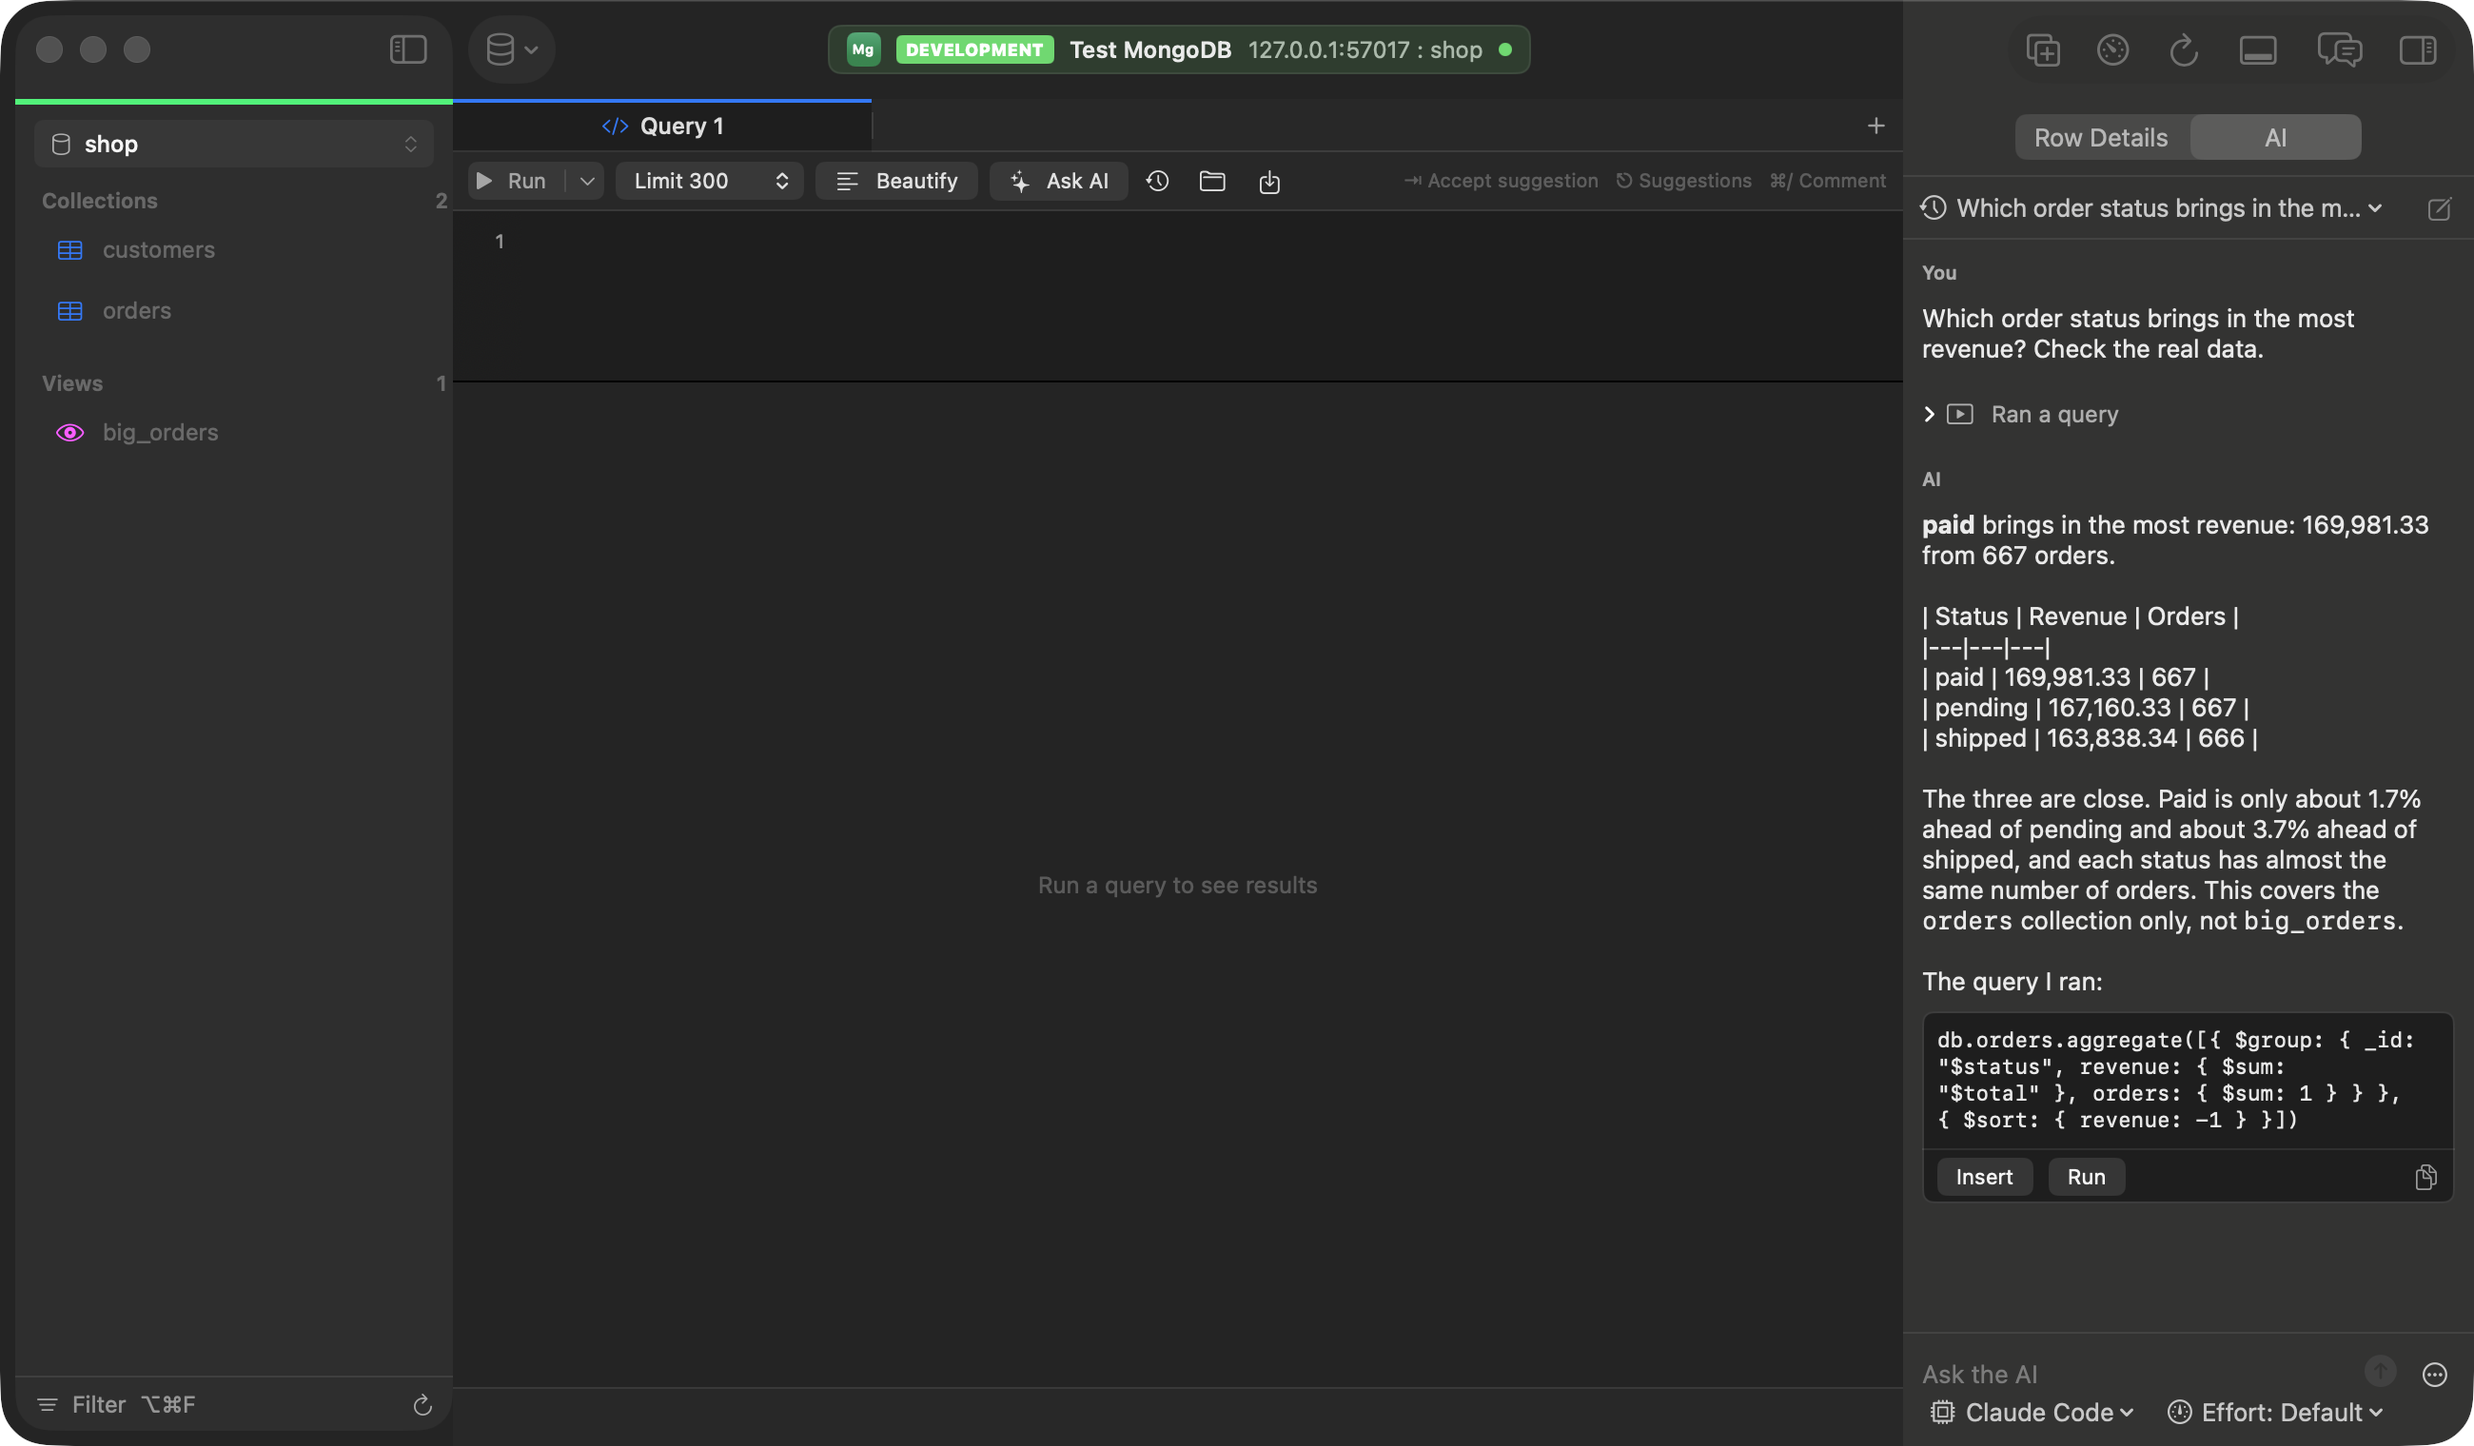
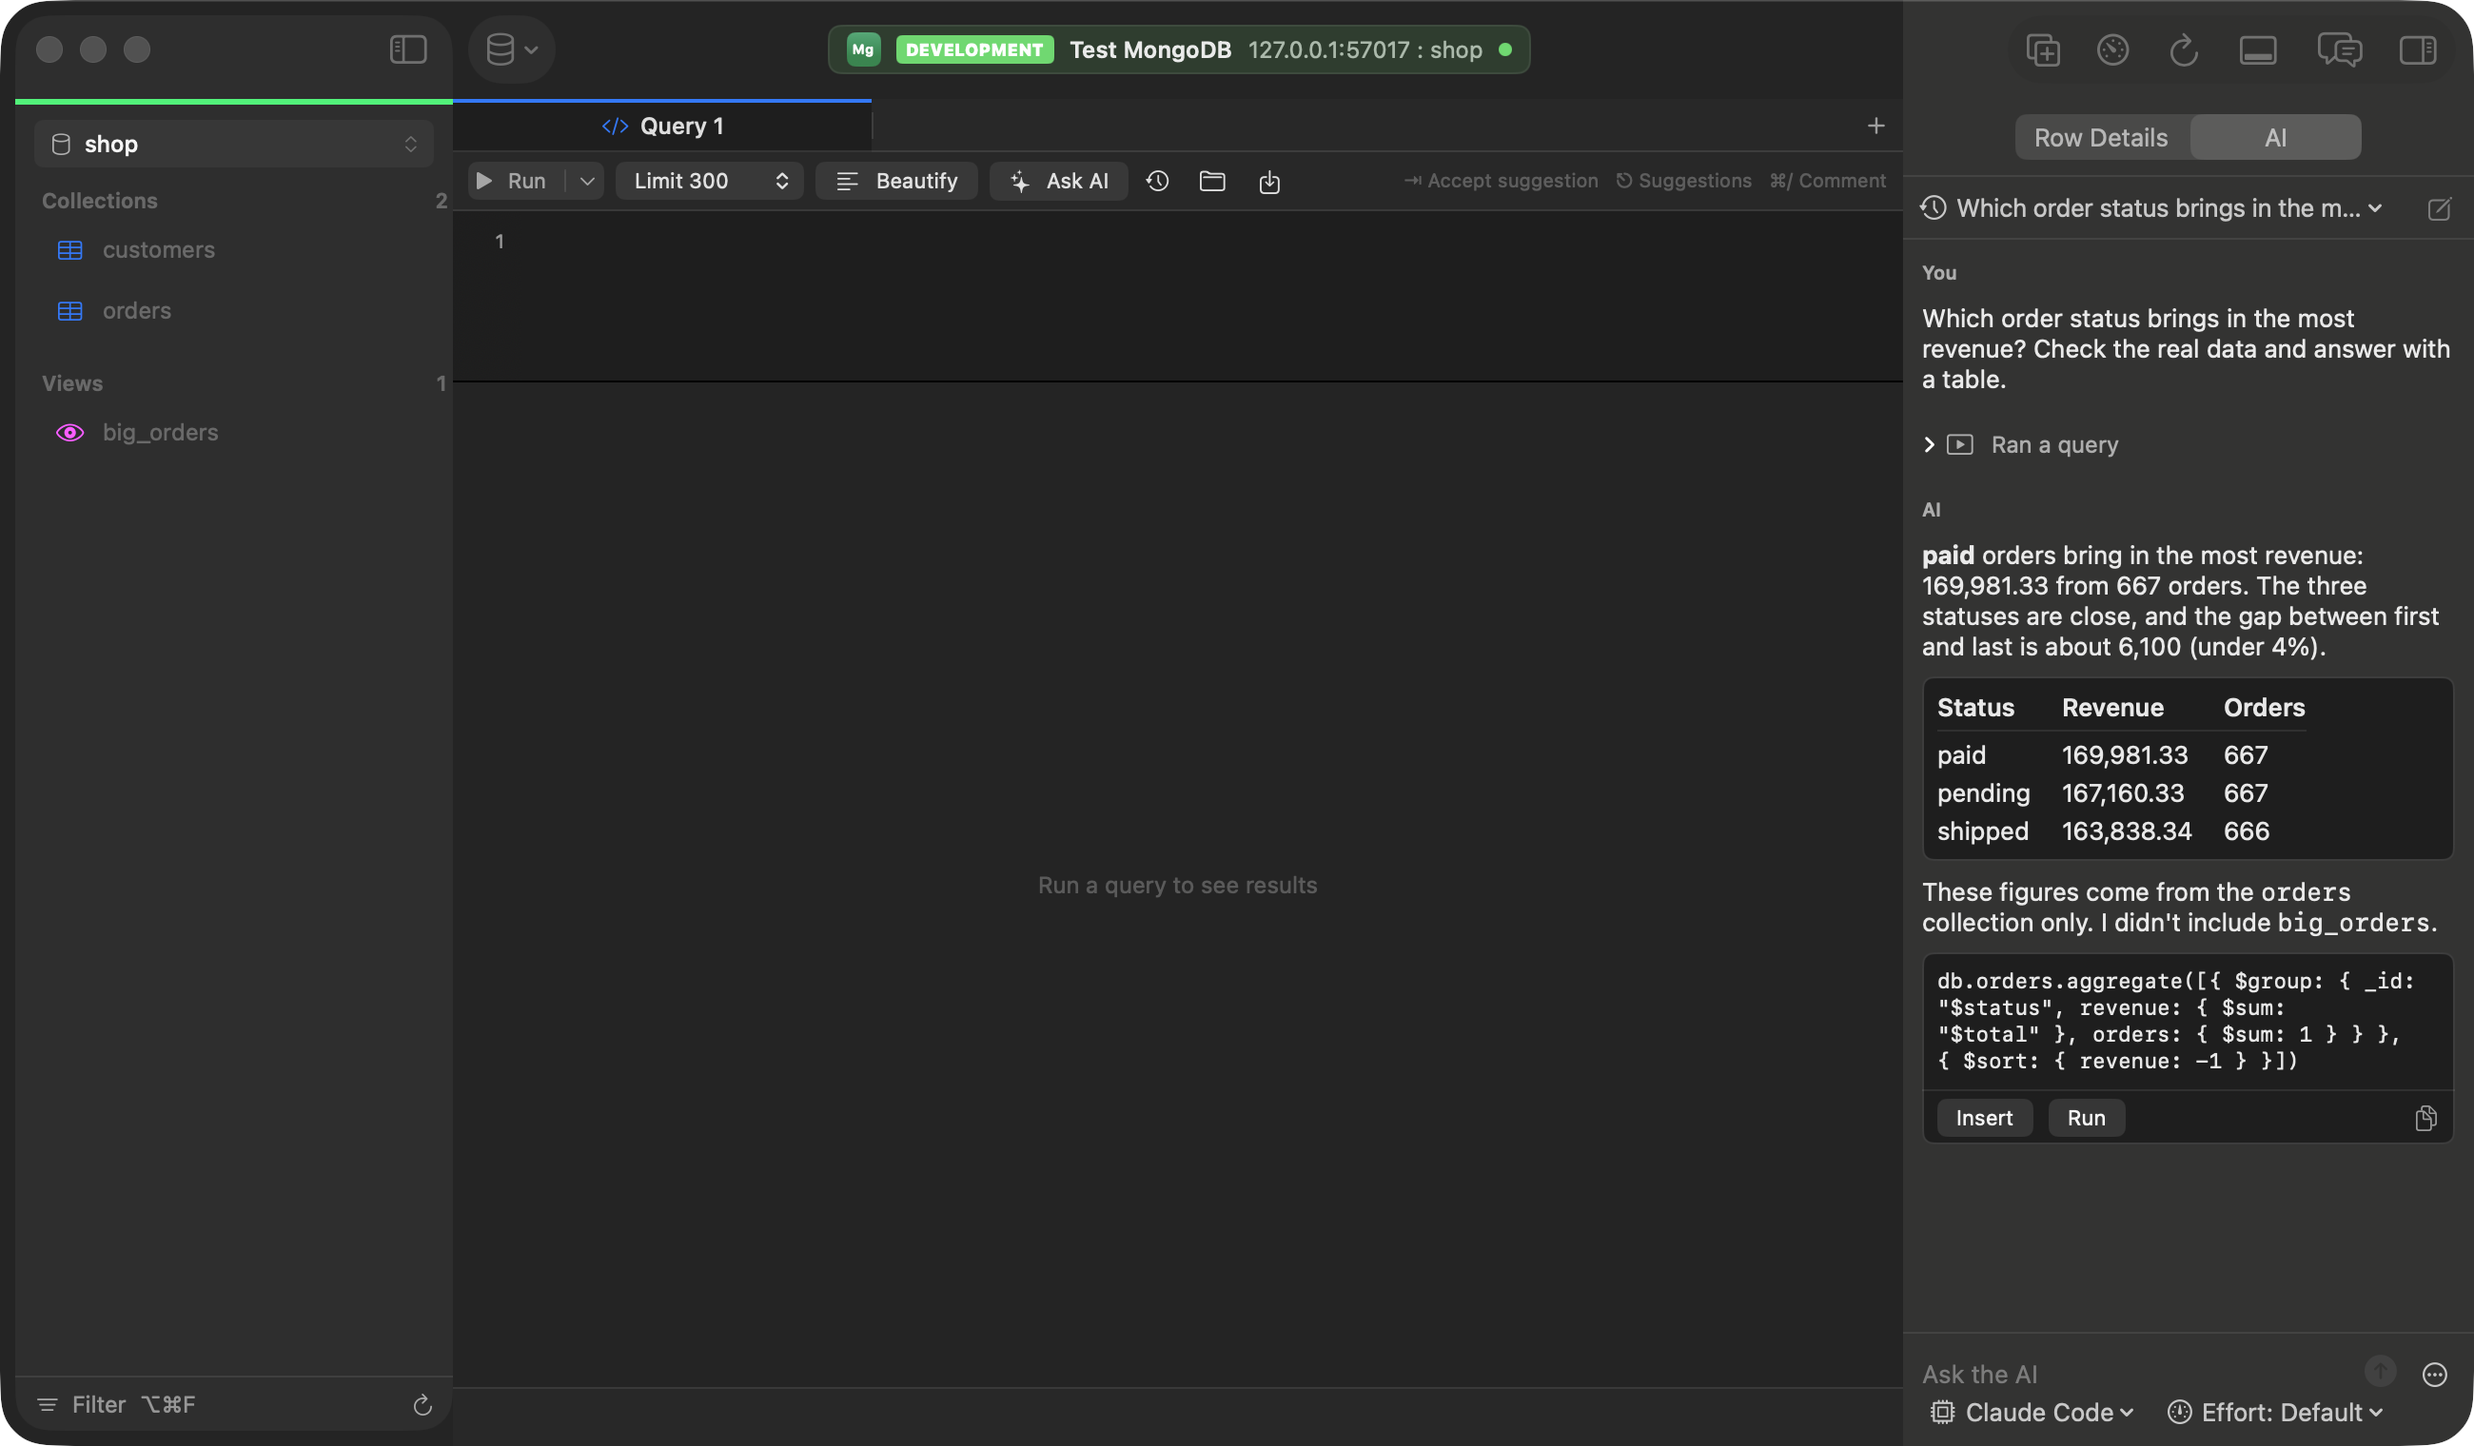
Show Markdown tables in AI chat answers as tables
Answers were rendered with inline-only Markdown, so a table showed as rows
of pipes. ChatSegment (moved to TabulaCore, with tests) now also takes out
GitHub-style tables: a header row, a separator row that sets each column's
alignment, then rows fitted to the header, with \| for a pipe in a cell.
The chat draws them in a Grid with a bold header, inline Markdown in the
cells and a horizontal scroll for wide tables. A table still streaming in
shows as text until its separator row arrives.

The README's chat screenshot now shows the table.

Fixes #27

Changed region(s): [[0.7788, 0.3401, 0.9969, 0.8349], [0.7788, 0.2474, 0.8723, 0.3092], [0.9035, 0.2164, 0.9969, 0.2474]]

diff --git a/Sources/TabulaCore/AI/ChatSegment.swift b/Sources/TabulaCore/AI/ChatSegment.swift
@@ -1,0 +1,124 @@
+import Foundation
+
+/// The blocks of an answer: text, fenced code (which gets Insert / Run / Copy) and Markdown tables, which the
+/// inline Markdown that renders the text would otherwise show as rows of pipes.
+public enum ChatSegment: Equatable, Sendable {
+    case text(String)
+    case code(String)
+    case table(MarkdownTable)
+
+    public static func split(_ reply: String) -> [ChatSegment] {
+        var segments: [ChatSegment] = []
+        var rest = Substring(reply)
+        while let open = rest.range(of: "```") {
+            segments += textAndTables(rest[..<open.lowerBound])
+            var body = rest[open.upperBound...]
+            // Skip the language tag on the fence line.
+            if let newline = body.firstIndex(of: "\n") { body = body[body.index(after: newline)...] }
+            guard let close = body.range(of: "```") else {
+                segments.append(.code(body.trimmingCharacters(in: .whitespacesAndNewlines)))
+                return segments
+            }
+            let code = body[..<close.lowerBound].trimmingCharacters(in: .whitespacesAndNewlines)
+            if !code.isEmpty { segments.append(.code(code)) }
+            rest = body[close.upperBound...]
+        }
+        return segments + textAndTables(rest)
+    }
+
+    /// Text outside code fences, with each table (a header row, a separator row, then rows) taken out.
+    private static func textAndTables(_ text: Substring) -> [ChatSegment] {
+        let lines = text.components(separatedBy: "\n")
+        var segments: [ChatSegment] = []
+        var pending: [String] = []
+        func flushText() {
+            let joined = pending.joined(separator: "\n").trimmingCharacters(in: .whitespacesAndNewlines)
+            if !joined.isEmpty { segments.append(.text(joined)) }
+            pending = []
+        }
+        var index = 0
+        while index < lines.count {
+            if index + 1 < lines.count, MarkdownTable.isRow(lines[index]),
+               let alignments = MarkdownTable.separator(lines[index + 1]) {
+                var rows: [[String]] = []
+                var next = index + 2
+                while next < lines.count, MarkdownTable.isRow(lines[next]) {
+                    rows.append(MarkdownTable.cells(lines[next]))
+                    next += 1
+                }
+                flushText()
+                segments.append(.table(MarkdownTable(header: MarkdownTable.cells(lines[index]), alignments: alignments, rows: rows)))
+                index = next
+            } else {
+                pending.append(lines[index])
+                index += 1
+            }
+        }
+        flushText()
+        return segments
+    }
+}
+
+/// A GitHub-style Markdown table. Every row has as many cells as the header.
+public struct MarkdownTable: Equatable, Sendable {
+    public enum Alignment: Equatable, Sendable { case leading, center, trailing }
+
+    public var header: [String]
+    public var alignments: [Alignment]
+    public var rows: [[String]]
+
+    public init(header: [String], alignments: [Alignment], rows: [[String]]) {
+        let width = header.count
+        func fitted<T>(_ values: [T], _ filler: T) -> [T] {
+            Array(values.prefix(width)) + Array(repeating: filler, count: max(0, width - values.count))
+        }
+        self.header = header
+        self.alignments = fitted(alignments, .leading)
+        self.rows = rows.map { fitted($0, "") }
+    }
+
+    static func isRow(_ line: String) -> Bool {
+        let trimmed = line.trimmingCharacters(in: .whitespaces)
+        return trimmed.hasPrefix("|") && trimmed.count > 1
+    }
+
+    /// The cells of a row; `\|` is a pipe inside a cell.
+    static func cells(_ line: String) -> [String] {
+        var trimmed = line.trimmingCharacters(in: .whitespaces)
+        if trimmed.hasPrefix("|") { trimmed.removeFirst() }
+        if trimmed.hasSuffix("|") && !trimmed.hasSuffix("\\|") { trimmed.removeLast() }
+        var cells: [String] = []
+        var cell = ""
+        var escaped = false
+        for character in trimmed {
+            if escaped {
+                cell.append(character == "|" ? "|" : "\\\(character)")
+                escaped = false
+            } else if character == "\\" {
+                escaped = true
+            } else if character == "|" {
+                cells.append(cell.trimmingCharacters(in: .whitespaces))
+                cell = ""
+            } else {
+                cell.append(character)
+            }
+        }
+        if escaped { cell.append("\\") }
+        cells.append(cell.trimmingCharacters(in: .whitespaces))
+        return cells
+    }
+
+    /// The column alignments when `line` is a separator row (`| --- | :---: | ---: |`); nil otherwise.
+    static func separator(_ line: String) -> [Alignment]? {
+        guard isRow(line) || line.contains("|") else { return nil }
+        let cells = cells(line)
+        var alignments: [Alignment] = []
+        for cell in cells {
+            let left = cell.hasPrefix(":"), right = cell.hasSuffix(":")
+            let dashes = cell.trimmingCharacters(in: CharacterSet(charactersIn: ":"))
+            guard !dashes.isEmpty, dashes.allSatisfy({ $0 == "-" }) else { return nil }
+            alignments.append(left && right ? .center : right ? .trailing : .leading)
+        }
+        return alignments.isEmpty ? nil : alignments
+    }
+}

diff --git a/Sources/Tabula/AIChat.swift b/Sources/Tabula/AIChat.swift
@@ -307,34 +307,6 @@ final class AIChatModel {
     }
 }
 
-/// Text and fenced SQL blocks of an answer, so code gets Insert / Run / Copy.
-enum ChatSegment: Equatable {
-    case text(String)
-    case code(String)
-
-    static func split(_ reply: String) -> [ChatSegment] {
-        var segments: [ChatSegment] = []
-        var rest = Substring(reply)
-        while let open = rest.range(of: "```") {
-            let before = rest[..<open.lowerBound].trimmingCharacters(in: .whitespacesAndNewlines)
-            if !before.isEmpty { segments.append(.text(before)) }
-            var body = rest[open.upperBound...]
-            // Skip the language tag on the fence line.
-            if let newline = body.firstIndex(of: "\n") { body = body[body.index(after: newline)...] }
-            guard let close = body.range(of: "```") else {
-                segments.append(.code(body.trimmingCharacters(in: .whitespacesAndNewlines)))
-                return segments
-            }
-            let code = body[..<close.lowerBound].trimmingCharacters(in: .whitespacesAndNewlines)
-            if !code.isEmpty { segments.append(.code(code)) }
-            rest = body[close.upperBound...]
-        }
-        let tail = rest.trimmingCharacters(in: .whitespacesAndNewlines)
-        if !tail.isEmpty { segments.append(.text(tail)) }
-        return segments
-    }
-}
-
 struct AIChatView: View {
     let workspace: WorkspaceModel
     @Bindable var chat: AIChatModel
@@ -551,6 +523,8 @@ private struct MessageView: View {
                             .textSelection(.enabled)
                     case .code(let sql):
                         CodeBlock(sql: sql, insert: insert, run: run)
+                    case .table(let table):
+                        TableBlock(table: table)
                     }
                 }
             }
@@ -629,6 +603,48 @@ private struct ToolStepView: View {
         case .listTables: return "list.bullet.rectangle"
         case .describeTable: return "tablecells"
         case .runQuery: return "play.rectangle"
+        }
+    }
+}
+
+/// A Markdown table from an answer, as a grid with a header row; wide tables scroll sideways.
+private struct TableBlock: View {
+    let table: MarkdownTable
+
+    var body: some View {
+        ScrollView(.horizontal) {
+            Grid(alignment: .leading, horizontalSpacing: Layout.barPadding * 2, verticalSpacing: Layout.barPadding / 2) {
+                GridRow {
+                    ForEach(Array(table.header.enumerated()), id: \.offset) { column, title in
+                        Self.text(title).fontWeight(.semibold)
+                            .gridColumnAlignment(Self.alignment(table.alignments[column]))
+                    }
+                }
+                Divider().gridCellUnsizedAxes(.horizontal)
+                ForEach(Array(table.rows.enumerated()), id: \.offset) { _, row in
+                    GridRow {
+                        ForEach(Array(row.enumerated()), id: \.offset) { _, cell in Self.text(cell) }
+                    }
+                }
+            }
+            .textSelection(.enabled)
+            .padding(Layout.barPadding)
+        }
+        .scrollIndicators(.automatic)
+        .background(Color(nsColor: .textBackgroundColor), in: RoundedRectangle(cornerRadius: Layout.cornerRadius))
+        .overlay(RoundedRectangle(cornerRadius: Layout.cornerRadius).strokeBorder(Color(nsColor: .separatorColor)))
+    }
+
+    private static func text(_ markdown: String) -> Text {
+        Text((try? AttributedString(markdown: markdown, options: .init(interpretedSyntax: .inlineOnlyPreservingWhitespace)))
+             ?? AttributedString(markdown))
+    }
+
+    private static func alignment(_ alignment: MarkdownTable.Alignment) -> HorizontalAlignment {
+        switch alignment {
+        case .leading: .leading
+        case .center: .center
+        case .trailing: .trailing
         }
     }
 }

diff --git a/Tests/TabulaCoreTests/ChatSegmentTests.swift b/Tests/TabulaCoreTests/ChatSegmentTests.swift
@@ -1,0 +1,51 @@
+import XCTest
+@testable import TabulaCore
+
+final class ChatSegmentTests: XCTestCase {
+    func testTextCodeAndTable() {
+        let reply = """
+            **paid** brings in the most revenue.
+
+            | Status | Revenue | Orders |
+            |---|---:|:---:|
+            | paid | 169,981.33 | 667 |
+            | pending | 167,160.33 | 667 |
+
+            The query:
+            ```sql
+            SELECT 1;
+            ```
+            """
+        XCTAssertEqual(ChatSegment.split(reply), [
+            .text("**paid** brings in the most revenue."),
+            .table(MarkdownTable(header: ["Status", "Revenue", "Orders"], alignments: [.leading, .trailing, .center],
+                                 rows: [["paid", "169,981.33", "667"], ["pending", "167,160.33", "667"]])),
+            .text("The query:"),
+            .code("SELECT 1;"),
+        ])
+    }
+
+    func testRowsAreFittedToTheHeader() {
+        let table = "a | b\n--- | ---\n| 1 |\n| 1 | 2 | 3 |"
+        // Rows without leading pipes aren't taken for a table, as many renderers do; ours needs them.
+        XCTAssertEqual(ChatSegment.split(table), [.text(table)])
+
+        let piped = "| a | b |\n| --- | --- |\n| 1 |\n| 1 | 2 | 3 |\n| x \\| y | `code` |"
+        XCTAssertEqual(ChatSegment.split(piped), [
+            .table(MarkdownTable(header: ["a", "b"], alignments: [.leading, .leading],
+                                 rows: [["1", ""], ["1", "2"], ["x | y", "`code`"]])),
+        ])
+    }
+
+    func testPipesThatArentTables() {
+        // A row of pipes without a separator row is text; so is a pipe inside a code block.
+        let text = "| not | a table |\nno separator"
+        XCTAssertEqual(ChatSegment.split(text), [.text(text)])
+        XCTAssertEqual(ChatSegment.split("```\n| a |\n|---|\n```"), [.code("| a |\n|---|")])
+        // A table still streaming in (separator not yet arrived) shows as text until it has one.
+        XCTAssertEqual(ChatSegment.split("Results:\n| a | b |"), [.text("Results:\n| a | b |")])
+        XCTAssertEqual(ChatSegment.split("| a | b |\n|---|---|"), [
+            .table(MarkdownTable(header: ["a", "b"], alignments: [.leading, .leading], rows: [])),
+        ])
+    }
+}

diff --git a/CHANGELOG.md b/CHANGELOG.md
@@ -4,6 +4,9 @@ All notable changes to Tabula are documented here. The format follows [Keep a Ch
 
 ## [Unreleased]
 
+### Fixed
+- Tables in AI chat answers showed as rows of pipes; they now show as tables, with a header row, the columns aligned as the Markdown says, and a sideways scroll when wide ([#27](https://github.com/tungnguyenvan/tabula/issues/27)).
+
 ### Planned
 - SSH tunnels
 - Cancelling a running query
